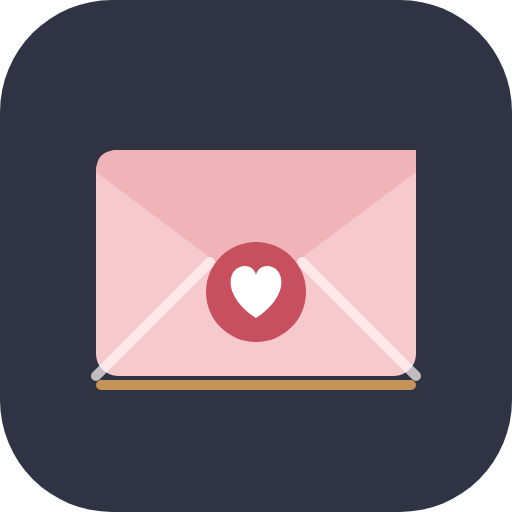
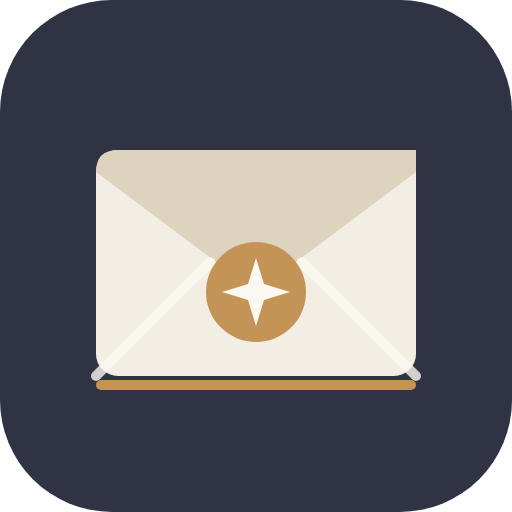
改為中性設計：愛心換成星芒與鴿子，預設信紙改米白海軍藍，圖示改金色封蠟
Claude-Session: https://claude.ai/code/session_017WG6iWo2dMJzcXYL5rsYrC

Changed region(s): [[0.1875, 0.2812, 0.8125, 0.75]]

diff --git a/index.html b/index.html
@@ -29,8 +29,8 @@
     --shadow: 0 1px 2px rgba(60,40,20,.05), 0 8px 24px rgba(60,40,20,.08);
     --serif: "Noto Serif TC", "Songti TC", serif;
     --sans: -apple-system, BlinkMacSystemFont, "PingFang TC", "Noto Sans TC", "Microsoft JhengHei", sans-serif;
-    /* 信紙（預設玫瑰） */
-    --p-paper: #FFF6F5; --p-ink: #5A2A30; --p-accent: #C8505E; --p-line: #F1D2D4; --p-env: #F6C9CC; --p-flap: #EFB3B8;
+    /* 信紙（預設素雅） */
+    --p-paper: #FBF8F1; --p-ink: #2F3343; --p-accent: #2F3343; --p-line: #E6DFD0; --p-env: #E6DFCF; --p-flap: #D6CCB8;
   }
   * { box-sizing: border-box; }
   html, body { margin: 0; background: var(--sky); color: var(--ink); font-family: var(--sans); font-size: 16px; line-height: 1.6; -webkit-text-size-adjust: 100%; }
@@ -217,7 +217,7 @@ function toast(msg) {
 
 /* ---------- 信紙樣式 ---------- */
 const PAPERS = {
-  rose:  { name: '玫瑰', paper: '#FFF6F5', ink: '#5A2A30', accent: '#C8505E', line: '#F1D2D4', env: '#F6C9CC', flap: '#EFB3B8' },
+  rose:  { name: '素雅', paper: '#FBF8F1', ink: '#2F3343', accent: '#2F3343', line: '#E6DFD0', env: '#E6DFCF', flap: '#D6CCB8' },
   sky:   { name: '晴空', paper: '#F5F9FD', ink: '#22374E', accent: '#3F6FA8', line: '#D5E1EE', env: '#CFDDEE', flap: '#B9CDE5' },
   kraft: { name: '牛皮', paper: '#FBF6EC', ink: '#4A3826', accent: '#A86F32', line: '#E9DBC3', env: '#E2C9A0', flap: '#D4B584' },
   mint:  { name: '薄荷', paper: '#F4FAF6', ink: '#1F3F2E', accent: '#3D8A62', line: '#D2E7DA', env: '#C9E3D3', flap: '#B1D6BF' },
@@ -386,15 +386,15 @@ const footHtml = () => `<div class="foot"><button class="link" type="button" onc
 /* ---------- 使用說明：第一次登入後自動出現，之後可從頁尾再打開 ---------- */
 const GUIDES = {
   writer: [
-    ['💌', '寫一封信', '在信紙上填收信人的名字，寫下想對他說的悄悄話。可以換信紙顏色，也可以附一張照片。'],
+    ['✉', '寫一封信', '在信紙上填收信人的名字，寫下想對他說的悄悄話。可以換信紙顏色，也可以附一張照片。'],
     ['✍', '名字要寫對', '收信人的名字要和他在這裡登記的姓名一樣（例如寫全名「陳怡君」），他才拆得開。'],
     ['📤', '儲存並送出', '按「儲存並送出」，選擇要傳給哪位朋友或群組。對方會收到只寫著「To. 他名字」的信封。'],
-    ['💞', '收信＝神聖的愛流通成功', '對方按「收信」並登入，姓名相符就能拆信。你寫的信列在頁面下方，可以重新送出；對方收信前可以編輯，也可以刪除。'],
+    ['🕊', '收信＝神聖的愛流通成功', '對方按「收信」並登入，姓名相符就能拆信。你寫的信列在頁面下方，可以重新送出；對方收信前可以編輯，也可以刪除。'],
   ],
   host: [
     ['📮', '建立流通神聖的愛活動', '按「建立」填活動名稱、說明和寫信截止時間。建立後馬上跳出選單，把寫信入口發到群組。'],
-    ['💌', '大家寫信、送出', '成員第一次寫信要填姓名和手機，之後寫信、選朋友或群組送出信封。'],
-    ['💞', '看神聖的愛流通', '點進活動就能看到「誰 → 誰」、是否已收信。點一下可看信件內容，必要時可刪除某封信。'],
+    ['✉', '大家寫信、送出', '成員第一次寫信要填姓名和手機，之後寫信、選朋友或群組送出信封。'],
+    ['🕊', '看神聖的愛流通', '點進活動就能看到「誰 → 誰」、是否已收信。點一下可看信件內容，必要時可刪除某封信。'],
     ['⚙', '管理活動', '活動頁最下方可以編輯、停止或重新開放寫信、刪除活動。首頁也可以把平台安裝到手機桌面。'],
   ],
 };
@@ -500,7 +500,7 @@ function writeForm(edit, presetTo) {
       ${Object.entries(PAPERS).map(([k, p]) => `<button type="button" data-paper="${k}" aria-pressed="${k === paper}" aria-label="${p.name}" title="${p.name}" style="background:${p.accent}"></button>`).join('')}
     </div>
     <div class="paper" id="paper" style="${paperVars(paper)}">
-      <div class="stampmark" aria-hidden="true">♥</div>
+      <div class="stampmark" aria-hidden="true">✦</div>
       <div class="actname">${esc(ACT.title)}</div>
       <div class="dear"><span>親愛的</span><input id="w-to" maxlength="30" value="${esc(to)}" placeholder="收信人的名字" aria-label="收信人的名字"><span>：</span></div>
       <textarea id="w-text" maxlength="1000" placeholder="寫下想對他說的悄悄話…" aria-label="悄悄話">${esc(d.text || '')}</textarea>
@@ -515,7 +515,7 @@ function writeForm(edit, presetTo) {
       <div class="date">${esc(today)}</div>
     </div>
     <p class="lock-note">🔒 收信人要登入，而且登記的姓名和你寫的收信人一樣，才拆得開這封信。</p>
-    <button class="btn block gold" id="w-send" type="button">${edit ? '儲存修改' : '儲存並送出 💌'}</button>
+    <button class="btn block gold" id="w-send" type="button">${edit ? '儲存修改' : '儲存並送出 ✉'}</button>
     ${edit ? '' : '<div id="w-mine"></div>'}${footHtml()}`);
 
   let cur = paper;
@@ -614,7 +614,7 @@ async function drawMine() {
     if (!letters.length || !box.isConnected) return;
     box.innerHTML = `<div class="card sent-list"><b>我在這個活動寫的信</b>${letters.map(l => `
       <div class="mine-item">
-        <div class="row" style="border:0"><span>給 <b>${esc(l.to)}</b></span>${l.openedAt ? `<span class="chip paired">💞 已收信</span>`
+        <div class="row" style="border:0"><span>給 <b>${esc(l.to)}</b></span>${l.openedAt ? `<span class="chip paired">🕊 已收信</span>`
           : l.sent ? `<span class="chip pending">已送出・未收</span>` : `<span class="chip">還沒送出</span>`}</div>
         <div class="mine-acts">
           ${l.sent ? '' : `<button class="btn gold" type="button" data-resend="${esc(l.id)}">送出</button>`}
@@ -637,11 +637,11 @@ async function drawMine() {
 function sentView(ok) {
   view(`${topHtml(ME.name)}
     <div class="center fade-up">
-      <div class="big-emoji">${ok ? '💌' : '📝'}</div>
+      <div class="big-emoji">${ok ? '✉' : '📝'}</div>
       <h2>${ok ? '信送出了！' : '信已存好，還沒送出'}</h2>
       <p class="muted">${ok ? `等「${esc(LETTER.to)}」按下收信，就算神聖的愛流通成功。` : '按下面的按鈕，選擇要傳給哪位朋友或群組。'}</p>
     </div>
-    <div class="env-stage"><div class="env" style="${paperVars(LETTER.paper)}"><div class="flap"></div><div class="seal">♥</div><div class="to"><small>To.</small><b>${esc(LETTER.to)}</b></div></div></div>
+    <div class="env-stage"><div class="env" style="${paperVars(LETTER.paper)}"><div class="flap"></div><div class="seal">✦</div><div class="to"><small>To.</small><b>${esc(LETTER.to)}</b></div></div></div>
     <div class="btn-row">
       <button class="btn ${ok ? 'ghost' : 'gold'} block" id="s-again" type="button">${ok ? '再傳給其他人' : '選擇朋友或群組送出'}</button>
       <button class="btn block" id="s-new" type="button">再寫一封</button>
@@ -658,7 +658,7 @@ async function letterFlow(pre) {
   view(`${topHtml()}
     <p class="center muted small" style="margin-top:20px">${esc(card.actTitle)}</p>
     <h2 class="center">有一封給「${esc(card.to)}」的信</h2>
-    <div class="env-stage"><div class="env" id="env" style="${paperVars(card.paper)}"><div class="flap"></div><div class="seal">♥</div><div class="to"><small>To.</small><b>${esc(card.to)}</b></div></div></div>
+    <div class="env-stage"><div class="env" id="env" style="${paperVars(card.paper)}"><div class="flap"></div><div class="seal">✦</div><div class="to"><small>To.</small><b>${esc(card.to)}</b></div></div></div>
     <p class="center muted small">只有「${esc(card.to)}」本人拆得開</p>
     <button class="btn block gold" id="l-open" type="button" style="margin-top:12px">收信</button>
     ${footHtml()}`);
@@ -708,9 +708,9 @@ function drawLetter(r) {
   const l = r.letter;
   ME = ME || {};
   view(`${topHtml()}
-    <p class="center small" style="margin:18px 0 4px;color:var(--ok)">${r.status === 'mine' ? '這是你寫的信' + (r.openedAt ? '・對方已收信 💞' : '・對方還沒收信') : r.first ? '💞 收信成功！' : '你已經收過這封信了'}</p>
+    <p class="center small" style="margin:18px 0 4px;color:var(--ok)">${r.status === 'mine' ? '這是你寫的信' + (r.openedAt ? '・對方已收信 🕊' : '・對方還沒收信') : r.first ? '🕊 收信成功！' : '你已經收過這封信了'}</p>
     <div class="paper fade-up" style="${paperVars(l.paper)}">
-      <div class="stampmark" aria-hidden="true">♥</div>
+      <div class="stampmark" aria-hidden="true">✦</div>
       <div class="actname">${esc(l.actTitle)}</div>
       <div class="dear"><span>親愛的 <b>${esc(l.to)}</b>：</span></div>
       <div class="text">${esc(l.text)}</div>
@@ -720,8 +720,8 @@ function drawLetter(r) {
       <div class="date">${esc(l.time)}</div>
     </div>
     <div class="btn-row col" style="margin-top:20px">
-      ${r.status === 'mine' ? '' : `<button class="btn gold" type="button" id="l-reply">💌 回信給 ${esc(l.from)}</button>`}
-      <button class="btn ${r.status === 'mine' ? 'gold' : 'ghost'}" type="button" id="l-pass">💞 繼續把愛傳下去</button>
+      ${r.status === 'mine' ? '' : `<button class="btn gold" type="button" id="l-reply">✉ 回信給 ${esc(l.from)}</button>`}
+      <button class="btn ${r.status === 'mine' ? 'gold' : 'ghost'}" type="button" id="l-pass">🕊 繼續把愛傳下去</button>
     </div>
     <p class="small muted center">「繼續把愛傳下去」：寫一封新的信給另一個人。</p>${footHtml()}`);
   if ($('l-reply')) $('l-reply').onclick = e => busy(e.currentTarget, () => writeFrom(l.actId, l.from));
@@ -732,7 +732,7 @@ function drawLetter(r) {
 async function forwardLetterFlow(id) {
   const { card } = await api('letterCard', { letterId: id });
   if (!card) return view(`${topHtml()}<div class="card center"><p>找不到這封信。</p></div>`);
-  view(`${topHtml()}<div class="card center"><div class="big-emoji">💌</div><p>把這封給「${esc(card.to)}」的信轉傳出去</p>
+  view(`${topHtml()}<div class="card center"><div class="big-emoji">✉</div><p>把這封給「${esc(card.to)}」的信轉傳出去</p>
     <button class="btn block gold" id="f-go" type="button">選擇朋友或群組</button></div>`);
   $('f-go').onclick = async () => { if (await sendLetter(card) && liff.isInClient()) liff.closeWindow(); };
 }
@@ -740,7 +740,7 @@ async function forwardLetterFlow(id) {
 async function forwardActFlow(id) {
   const { act } = await api('act', { actId: id });
   if (!act) return view(`${topHtml()}<div class="card center"><p>找不到這個流通神聖的愛活動。</p></div>`);
-  view(`${topHtml()}<div class="card center"><div class="big-emoji">💌</div><p>轉傳「${esc(act.title)}」的寫信入口</p>
+  view(`${topHtml()}<div class="card center"><div class="big-emoji">✉</div><p>轉傳「${esc(act.title)}」的寫信入口</p>
     <button class="btn block gold" id="f-go" type="button">選擇朋友或群組</button></div>`);
   $('f-go').onclick = async () => { if (await sendAct(act) && liff.isInClient()) liff.closeWindow(); };
 }
@@ -828,8 +828,8 @@ function renderHome() {
     ${ACTS.length ? ACTS.map(a => `
       <button class="card act" type="button" data-act="${esc(a.id)}">
         <div class="t"><h3>${esc(a.title)}</h3>${stateChip(a.state)}</div>
-        <div class="s">💌 ${a.letters} 封信・💞 神聖的愛流通成功 ${a.opened}${a.deadline ? `・截止 ${esc(shortTime(a.deadline))}` : ''}${a.mine === false ? `・${esc(a.creator)} 建立` : ''}</div>
-      </button>`).join('') : `<div class="card empty"><div class="big-emoji">💌</div>還沒有流通神聖的愛活動，按上面的按鈕建立第一個。</div>`}
+        <div class="s">✉ ${a.letters} 封信・🕊 神聖的愛流通成功 ${a.opened}${a.deadline ? `・截止 ${esc(shortTime(a.deadline))}` : ''}${a.mine === false ? `・${esc(a.creator)} 建立` : ''}</div>
+      </button>`).join('') : `<div class="card empty"><div class="big-emoji">✉</div>還沒有流通神聖的愛活動，按上面的按鈕建立第一個。</div>`}
     ${footHtml()}`, 'home');
   $('h-new').onclick = () => renderActForm();
   if ($('h-install')) $('h-install').onclick = () => startInstall();
@@ -908,7 +908,7 @@ function drawDetail() {
           <button type="button" data-row="${esc(l.id)}" aria-expanded="${OPENED_ROW === l.id}">
             <span style="min-width:0"><span class="names">${esc(l.from)}<span class="arrow">→</span>${esc(l.to)}</span>
               <span class="when" style="display:block">${l.openedAt ? `${esc(l.openedBy)} 於 ${esc(l.openedAt)} 收信` : `寫於 ${esc(l.time)}`}</span></span>
-            ${l.openedAt ? '<span class="chip paired">💞 神聖的愛流通成功</span>' : l.sent ? '<span class="chip pending">未收信</span>' : '<span class="chip">未送出</span>'}
+            ${l.openedAt ? '<span class="chip paired">🕊 神聖的愛流通成功</span>' : l.sent ? '<span class="chip pending">未收信</span>' : '<span class="chip">未送出</span>'}
           </button>
           ${OPENED_ROW === l.id ? `<div class="body"><div class="paper mini" style="${paperVars(l.paper)}"><div class="text">${esc(l.text)}</div>
             ${l.image ? `<div class="photo"><img src="${esc(l.image)}" alt="附上的照片" style="max-height:220px"></div>` : ''}${verseShow(l)}</div>
@@ -980,19 +980,19 @@ const sendAct = a => pick([actFlex(a)], '已發到群組');
 
 /** 「已有 N 人收到信」：發卡當下這個活動已經拆信的人數（LINE 圖卡發出後內容固定，不會自動更新） */
 const openedLine = (n, t, emptyText) => (+n > 0 || emptyText) ? [{ type: 'box', layout: 'horizontal', margin: 'md', paddingAll: '8px', cornerRadius: '999px', backgroundColor: t.line,
-  contents: [{ type: 'text', text: +n > 0 ? `💞 已有 ${+n} 人收到信` : emptyText, size: 'xs', color: t.accent, weight: 'bold', align: 'center' }] }] : [];
+  contents: [{ type: 'text', text: +n > 0 ? `🕊 已有 ${+n} 人收到信` : emptyText, size: 'xs', color: t.accent, weight: 'bold', align: 'center' }] }] : [];
 
 /** 信封圖卡：只寫收信人，內容要按「收信」才看得到 */
 function letterFlex(l) {
   const p = paperOf(l.paper);
-  return { type: 'flex', altText: `💌 有一封給 ${l.to} 的信`.slice(0, 400), contents: {
+  return { type: 'flex', altText: `✉ 有一封給 ${l.to} 的信`.slice(0, 400), contents: {
     type: 'bubble', size: 'kilo',
     styles: { body: { backgroundColor: p.paper }, footer: { backgroundColor: p.paper } },
     body: { type: 'box', layout: 'vertical', paddingAll: '18px', contents: [
-      { type: 'text', text: '💌 ' + (l.actTitle || '流通神聖的愛信'), size: 'xs', color: p.accent, weight: 'bold', wrap: true },
+      { type: 'text', text: '✉ ' + (l.actTitle || '流通神聖的愛信'), size: 'xs', color: p.accent, weight: 'bold', wrap: true },
       { type: 'box', layout: 'vertical', margin: 'md', backgroundColor: p.env, cornerRadius: '10px', paddingAll: '16px', paddingTop: '22px', contents: [
         { type: 'box', layout: 'vertical', width: '44px', height: '44px', cornerRadius: '22px', backgroundColor: p.accent, justifyContent: 'center', alignItems: 'center',
-          contents: [{ type: 'text', text: '♥', color: '#FFFFFF', size: 'lg', align: 'center' }] },
+          contents: [{ type: 'text', text: '✦', color: '#FFFFFF', size: 'lg', align: 'center' }] },
         { type: 'text', text: 'To.', size: 'xs', color: p.ink, margin: 'lg' },
         { type: 'text', text: String(l.to), size: 'xl', weight: 'bold', color: p.ink, wrap: true },
         { type: 'text', text: '只有本人拆得開', size: 'xxs', color: p.ink, margin: 'sm' } ] },
@@ -1007,12 +1007,12 @@ function letterFlex(l) {
 function actFlex(a) {
   const p = PAPERS.rose;
   const body = [
-    { type: 'text', text: '💌 流通神聖的愛圖卡', size: 'xs', color: p.accent, weight: 'bold' },
+    { type: 'text', text: '✉ 流通神聖的愛圖卡', size: 'xs', color: p.accent, weight: 'bold' },
     { type: 'text', text: a.title, size: 'xl', weight: 'bold', color: p.ink, wrap: true, margin: 'sm' } ];
-  if (a.desc) body.push({ type: 'text', text: a.desc.length > 160 ? a.desc.slice(0, 158) + '…' : a.desc, size: 'sm', color: '#7A5A5E', wrap: true, margin: 'md' });
-  if (shortTime(a.deadline)) body.push({ type: 'text', text: '寫信截止 ' + shortTime(a.deadline), size: 'xs', color: '#7A5A5E', margin: 'md' });
-  body.push(...openedLine(a.opened, p, '💌 還沒有人收到信，來寫第一封吧'));
-  return { type: 'flex', altText: `💌 ${a.title}：寫一封愛的信`.slice(0, 400), contents: {
+  if (a.desc) body.push({ type: 'text', text: a.desc.length > 160 ? a.desc.slice(0, 158) + '…' : a.desc, size: 'sm', color: '#67645F', wrap: true, margin: 'md' });
+  if (shortTime(a.deadline)) body.push({ type: 'text', text: '寫信截止 ' + shortTime(a.deadline), size: 'xs', color: '#67645F', margin: 'md' });
+  body.push(...openedLine(a.opened, p, '✉ 還沒有人收到信，來寫第一封吧'));
+  return { type: 'flex', altText: `✉ ${a.title}：寫一封愛的信`.slice(0, 400), contents: {
     type: 'bubble',
     styles: { body: { backgroundColor: p.paper }, footer: { backgroundColor: p.paper } },
     body: { type: 'box', layout: 'vertical', paddingAll: '20px', contents: body },
